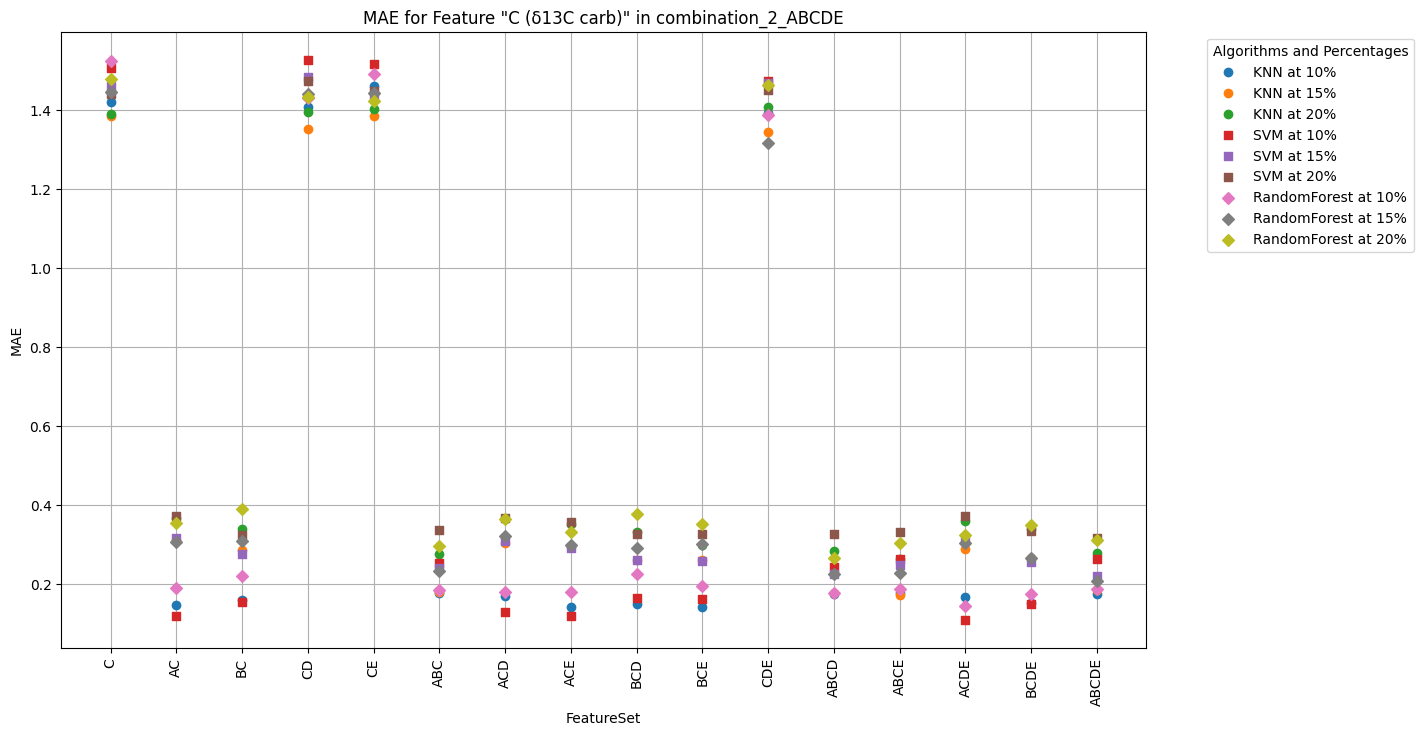
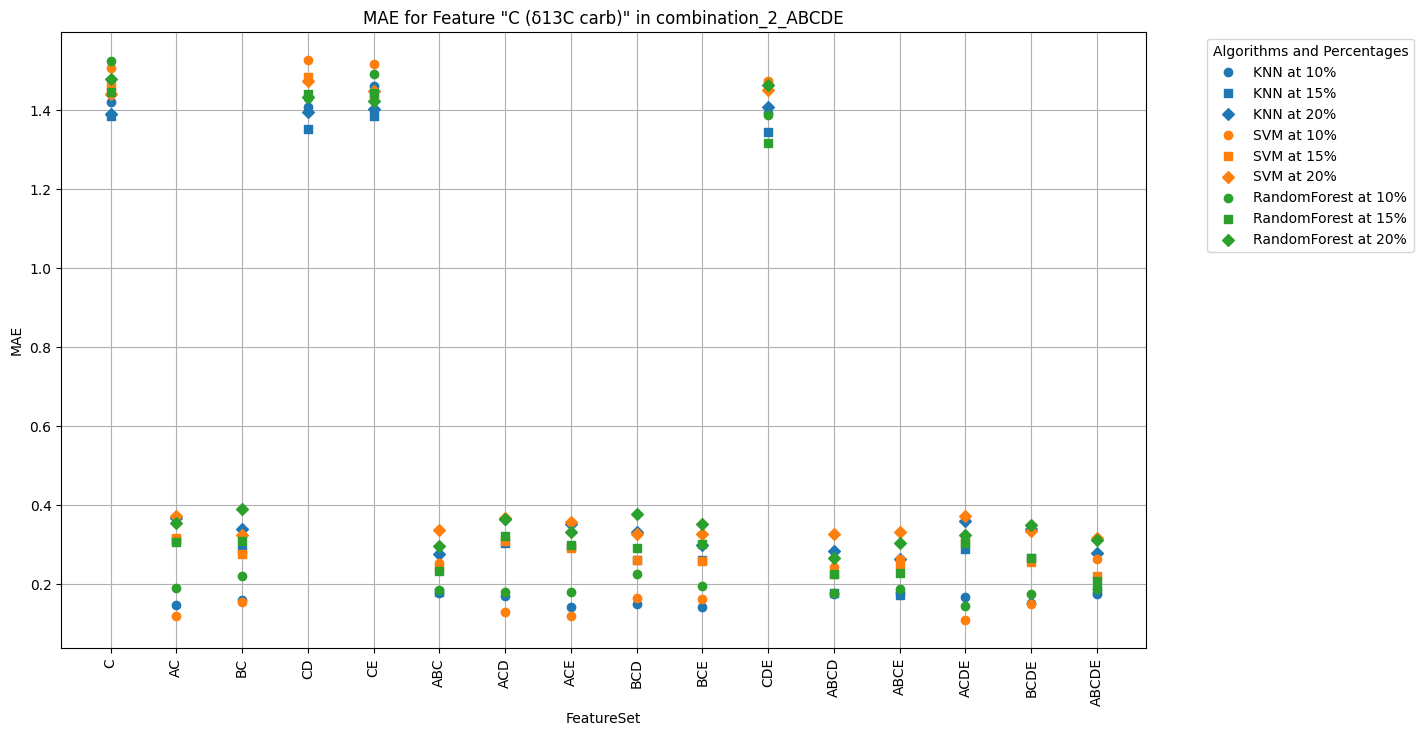
Less Colors in Graphs to Make More Readable

diff --git a/generate_mae_scatter_plots_tm.py b/generate_mae_scatter_plots_tm.py
@@ -1,0 +1,46 @@
+import pandas as pd
+import matplotlib.pyplot as plt
+import os
+
+# Load CSV file
+file_path = 'data_impute_project/error_metrics/error_analysis_with_all_featureset.csv'
+data = pd.read_csv(file_path)
+
+# Output directory for plots
+output_dir = 'data_impute_project/mae_scatter_plots/terrestrial_mammals'
+os.makedirs(output_dir, exist_ok=True)
+
+# Define markers and colors
+markers = ['o', 's', 'D']
+colors = ['#1f77b4', '#ff7f0e', '#2ca02c']
+
+def generate_scatter_plots(data, output_dir):
+    for combination in data['Combination'].unique():
+        for feature in data[data['Combination'] == combination]['Feature'].unique():
+            filtered_data = data[(data['Combination'] == combination) & (data['Feature'] == feature)]
+            plt.figure(figsize=(14, 8))
+
+            for i, algorithm in enumerate(filtered_data['Algorithm'].unique()):
+                color = colors[i % len(colors)]
+                for j, percentage in enumerate(filtered_data['Percentage'].unique()):
+                    marker = markers[j % len(markers)]
+                    algo_data = filtered_data[(filtered_data['Algorithm'] == algorithm) & (filtered_data['Percentage'] == percentage)]
+                    plt.scatter(algo_data['FeatureSet'], algo_data['MAE'], color=color, marker=marker, label=f'{algorithm} at {percentage}%', zorder=3)
+
+            plt.title(f'MAE for Feature "{feature}" in {combination}')
+            plt.xlabel('FeatureSet')
+            plt.ylabel('MAE')
+            plt.xticks(rotation=90)
+            plt.grid(True, zorder=1)
+
+            # Create legend without duplicate labels
+            handles, labels = plt.gca().get_legend_handles_labels()
+            by_label = dict(zip(labels, handles))
+            plt.legend(by_label.values(), by_label.keys(), title='Algorithms and Percentages', bbox_to_anchor=(1.05, 1), loc='upper left')
+
+            plot_filename = f'{combination}_{feature}.png'.replace(' ', '_').replace('(', '').replace(')', '').replace(',', '')
+            plt.savefig(os.path.join(output_dir, plot_filename), bbox_inches='tight')
+            plt.close()
+
+generate_scatter_plots(data, output_dir)
+print("Scatter plots have been created for all features of all combinations.")
